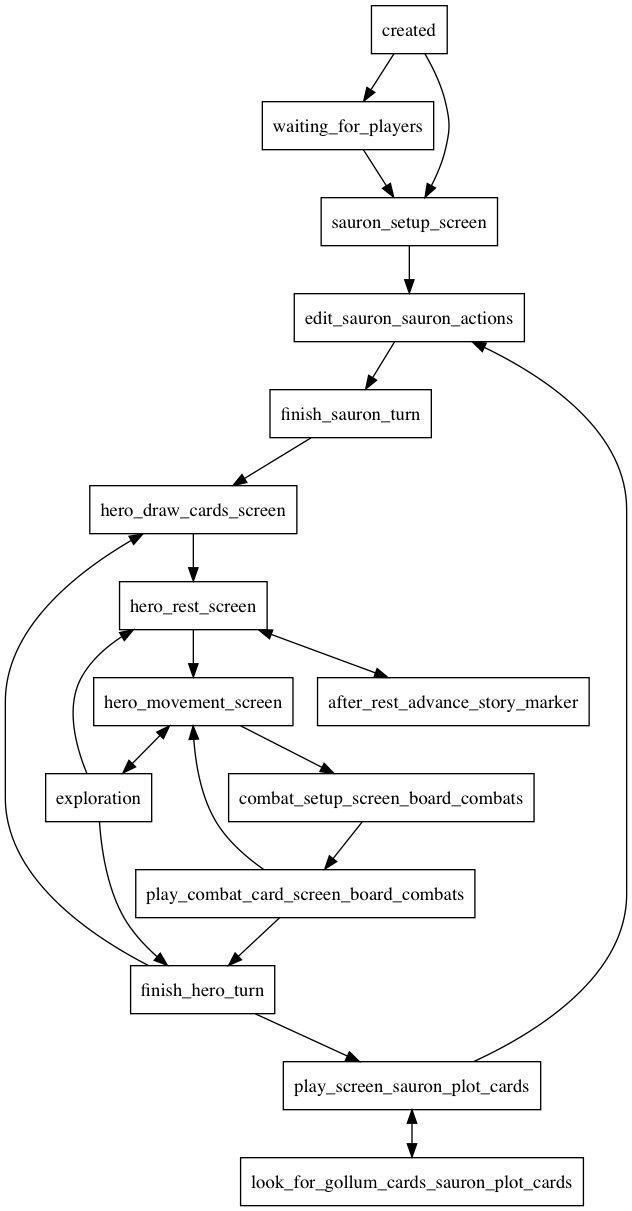
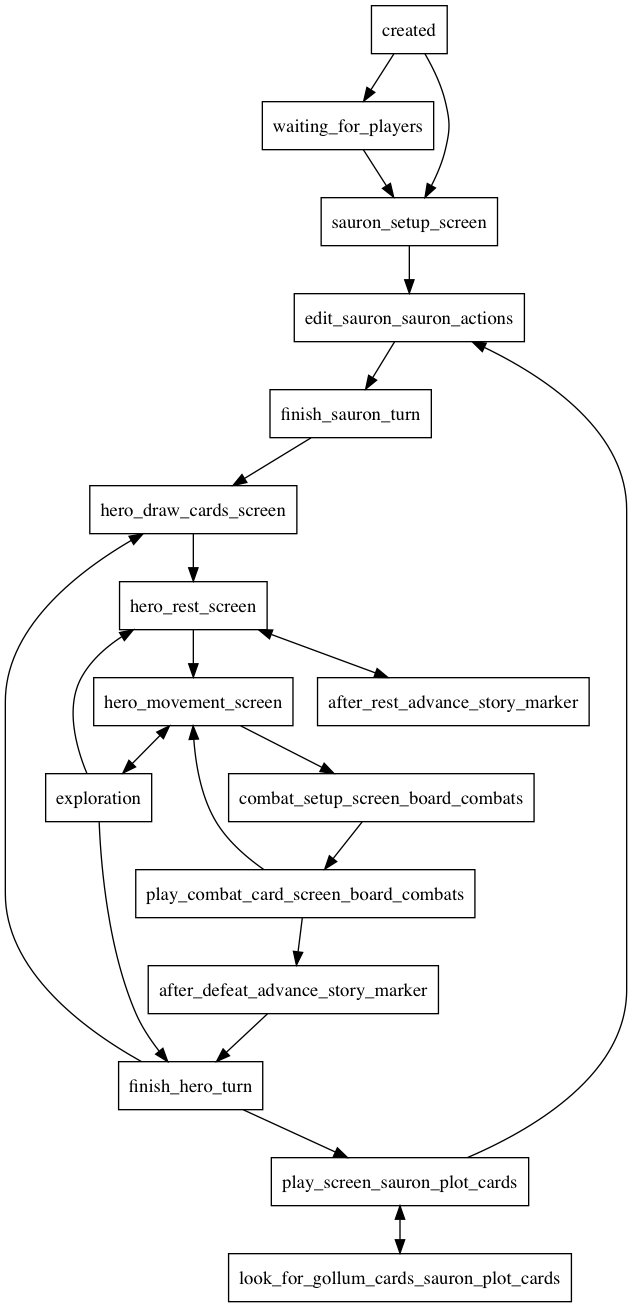
Hero defeat implemented.

diff --git a/app/controllers/combats_controller.rb b/app/controllers/combats_controller.rb
@@ -69,29 +69,42 @@ class CombatsController < ApplicationController
   end
 
   def terminate
+    hero_turn_end = false
+
     @board.transaction do
       discard_cards
       # For debug purpose, we keep combats.
       # destroy_combat
 
       if @combat_result.hero_defeated
-        
+
+        @board.advance_lowest_story_marker( random: true )
+        @hero.favor = [ @hero.favor - 1, 0 ].min
+        @hero.move_to_regional_haven
+        @hero.heal
+
+        @board.next_to_after_defeat_advance_story_marker!
+        hero_turn_end = true
       elsif @combat_result.mob_defeated
         # The hero continue his movement.
         @board.next_to_hero_movement_screen!
         @board.activate_current_hero
 
-        redirect_to hero_movement_screen_path( @hero )
       elsif @combat_result.mob_exhausted && @combat_result.hero_exhausted
+        @board.next_to_after_defeat_advance_story_marker!
+        hero_turn_end = true
+      else
+        raise "Shouldn't happen : #{@combat_result.inspect}"
+      end
 
+      if hero_turn_end
         if @board.finish_heroes_turn!(@hero) == :hero_draw_cards_screen
           redirect_to hero_draw_cards_screen_path(@hero)
         else
           redirect_to boards_path
         end
-
       else
-        raise "Shouldn't happen : #{@combat_result.inspect}"
+        redirect_to hero_movement_screen_path( @hero )
       end
     end
   end

diff --git a/app/models/game_engine/board_aasm.rb b/app/models/game_engine/board_aasm.rb
@@ -7,7 +7,7 @@ module GameEngine
       base.send(:aasm) do
         state :created, :initial => true
         state :waiting_for_players, :sauron_setup_screen, :edit_sauron_sauron_actions, :hero_draw_cards_screen
-        state :hero_rest_screen, :finish_hero_turn, :finish_sauron_turn
+        state :hero_rest_screen, :finish_hero_turn, :finish_sauron_turn, :after_defeat_advance_story_marker
         state :hero_movement_screen, :exploration, :play_screen_sauron_plot_cards, :after_rest_advance_story_marker
         state :combat_setup_screen_board_combats, :play_combat_card_screen_board_combats, :look_for_gollum_cards_sauron_plot_cards
 
@@ -60,11 +60,15 @@ module GameEngine
         end
 
         event :next_to_finish_hero_turn do
-          transitions :from => [:play_combat_card_screen_board_combats, :exploration], :to => :finish_hero_turn
+          transitions :from => [:after_defeat_advance_story_marker, :exploration], :to => :finish_hero_turn
         end
 
         event :next_to_finish_sauron_turn do
           transitions :from => [:edit_sauron_sauron_actions], :to => :finish_sauron_turn
+        end
+
+        event :next_to_after_defeat_advance_story_marker do
+          transitions :from => :play_combat_card_screen_board_combats, :to => :after_defeat_advance_story_marker
         end
 
       end

diff --git a/app/controllers/heroes_controller.rb b/app/controllers/heroes_controller.rb
@@ -292,31 +292,13 @@ class HeroesController < ApplicationController
   end
 
   def after_rest_or_heal
-    if advance_lowest_story_marker
+    if @board.advance_lowest_story_marker
       @board.next_to_hero_movement_screen!
       redirect_to hero_movement_screen_path(@actor)
     else
       @board.next_to_after_rest_advance_story_marker!
       redirect_to hero_after_rest_advance_story_marker_screen_path(@actor)
     end
-  end
-
-  # Try to advance the lowest story marker. If was able to do, return true, false otherwise.
-  def advance_lowest_story_marker
-    @lowest_markers = [ @board.story_marker_ring, @board.story_marker_conquest, @board.story_marker_corruption ]
-    @min_marker = @lowest_markers.min
-
-    lowests_markers_count = @lowest_markers.select{ |e| e == @min_marker }.count
-
-    # If we have more than one lowest markers, we will have to ask to player
-    return false if lowests_markers_count > 1
-
-    @board.story_marker_ring += 1 if @board.story_marker_ring == @min_marker
-    @board.story_marker_conquest += 1 if @board.story_marker_conquest == @min_marker
-    @board.story_marker_corruption += 1 if @board.story_marker_corruption == @min_marker
-    @board.save!
-
-    true
   end
 
   def set_heroes_hero_and_locations

diff --git a/app/models/board.rb b/app/models/board.rb
@@ -106,6 +106,33 @@ class Board < ApplicationRecord
   end
 
   #
+  # Story marker method
+  #
+  # Try to advance the lowest story marker. If was able to do, return true, false otherwise.
+  def advance_lowest_story_marker( random: false )
+    @lowest_markers = [ self.story_marker_ring, self.story_marker_conquest, self.story_marker_corruption ]
+    @min_marker = @lowest_markers.min
+
+    lowests_markers_count = @lowest_markers.select{ |e| e == @min_marker }.count
+
+    # If we have more than one lowest markers, we will have to ask to player
+    unless random
+      return false if lowests_markers_count > 1
+    end
+
+    self.story_marker_ring += 1 if self.story_marker_ring == @min_marker
+    return true if self.story_marker_ring == @min_marker
+
+    self.story_marker_conquest += 1 if self.story_marker_conquest == @min_marker
+    return true if self.story_marker_conquest == @min_marker
+
+    self.story_marker_corruption += 1 if self.story_marker_corruption == @min_marker
+    self.save!
+
+    true
+  end
+
+  #
   # Log methods
   #
   def log( actor, action, params= {} )

diff --git a/app/models/game_data/locations.rb b/app/models/game_data/locations.rb
@@ -4,6 +4,10 @@ require 'ostruct'
 module GameData
   class Locations < Base
 
+    REGIONAL_HAVEN_COLORS_CONVERSIONS = { yellow: :light_green, purple: :orange, red: :light_blue, brown: :light_blue }
+
+    # TODO : data should be a class variable rather than an instance variable
+    # And should not be read again if already assigned.
     attr_reader :data
 
     def initialize
@@ -32,11 +36,19 @@ module GameData
     end
 
     def position_list
-      @data.map{ |k, v| OpenStruct.new( name_code: k, x: v[:pos_x], y: v[:pos_y], haven: v[:heaven] ) }
+      @data.map{ |k, v| OpenStruct.new( name_code: k, x: v[:pos_x], y: v[:pos_y], haven: v[:haven] ) }
     end
 
     def alpha_select_tag_data
       @data.map{ |k, v| [ v[:name], k ] }.sort
+    end
+
+    def get_haven_for_color(color)
+      color = REGIONAL_HAVEN_COLORS_CONVERSIONS[color] || color
+      @data.each do |k, v|
+        return k if v[:color_code] == color && v[:haven] == true
+      end
+      raise "Could not find haven for #{color}"
     end
 
   end

diff --git a/app/models/hero.rb b/app/models/hero.rb
@@ -23,6 +23,14 @@ class Hero < Actor
     @locations.get(location).name
   end
 
+  def move_to_regional_haven
+    @locations ||= GameData::Locations.new
+    region_color = @locations.get(location).color_code
+    haven_code = @locations.get_haven_for_color(region_color)
+    self.locatino = haven_code
+    self.save!
+  end
+
   #
   # Cards methods
   #
